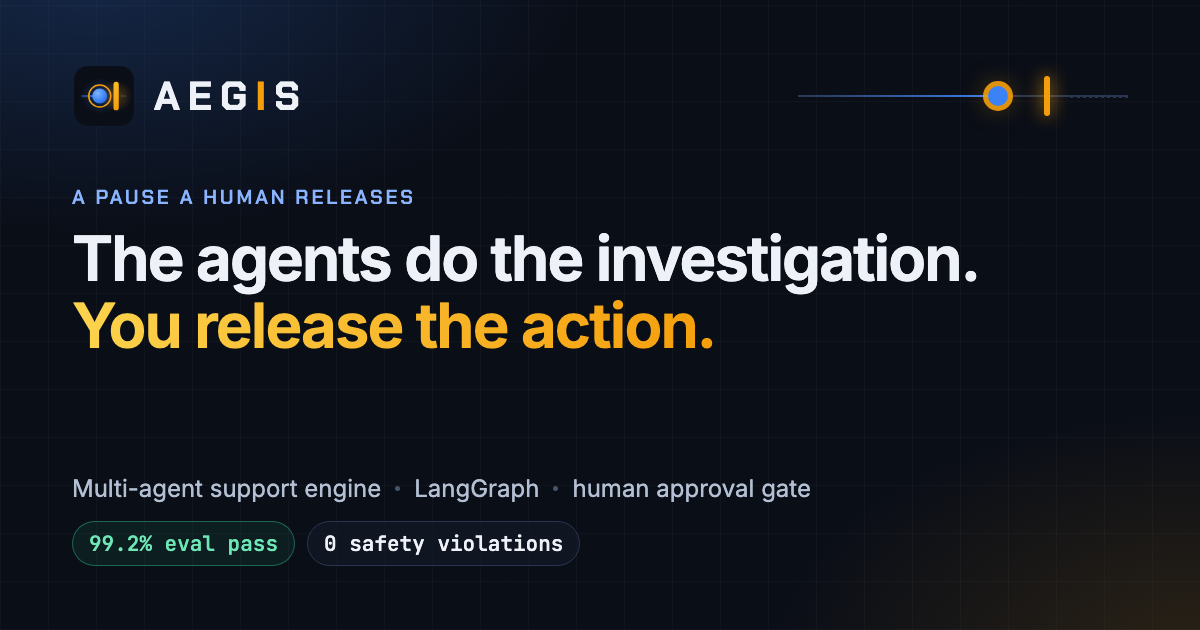
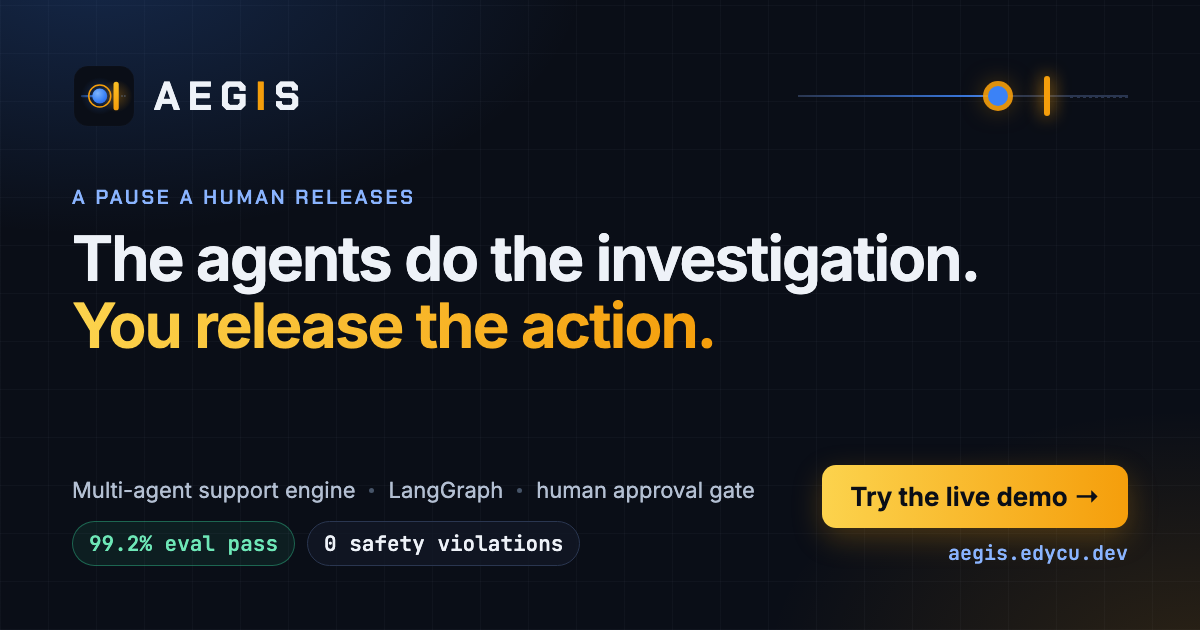
fix(frontend): shorten the meta description and add a CTA to the social card
The description was 167 characters; previews truncate around 125 and search
results around 155, so it is now 119. The OG image gains a 'Try the live demo'
button and the aegis.edycu.dev URL.

Changed region(s): [[0.0617, 0.7238, 0.9558, 0.9048]]

diff --git a/frontend/src/app/layout.tsx b/frontend/src/app/layout.tsx
@@ -21,8 +21,9 @@ const chakra = Chakra_Petch({
 });
 
 const TITLE = "Aegis — support agents that stop for a human";
+// ≤125 chars: social previews truncate around there, search results around 155.
 const DESCRIPTION =
-    "A LangGraph multi-agent support desk: agents triage, investigate a live database and propose one action — then pause at a human approval gate before anything executes.";
+    "AI agents triage support tickets and investigate a live database, then pause for human approval before any action runs.";
 
 const OG_IMAGE = { url: "/og.png", width: 1200, height: 630, alt: "Aegis — the agents do the investigation, you release the action" };
 
